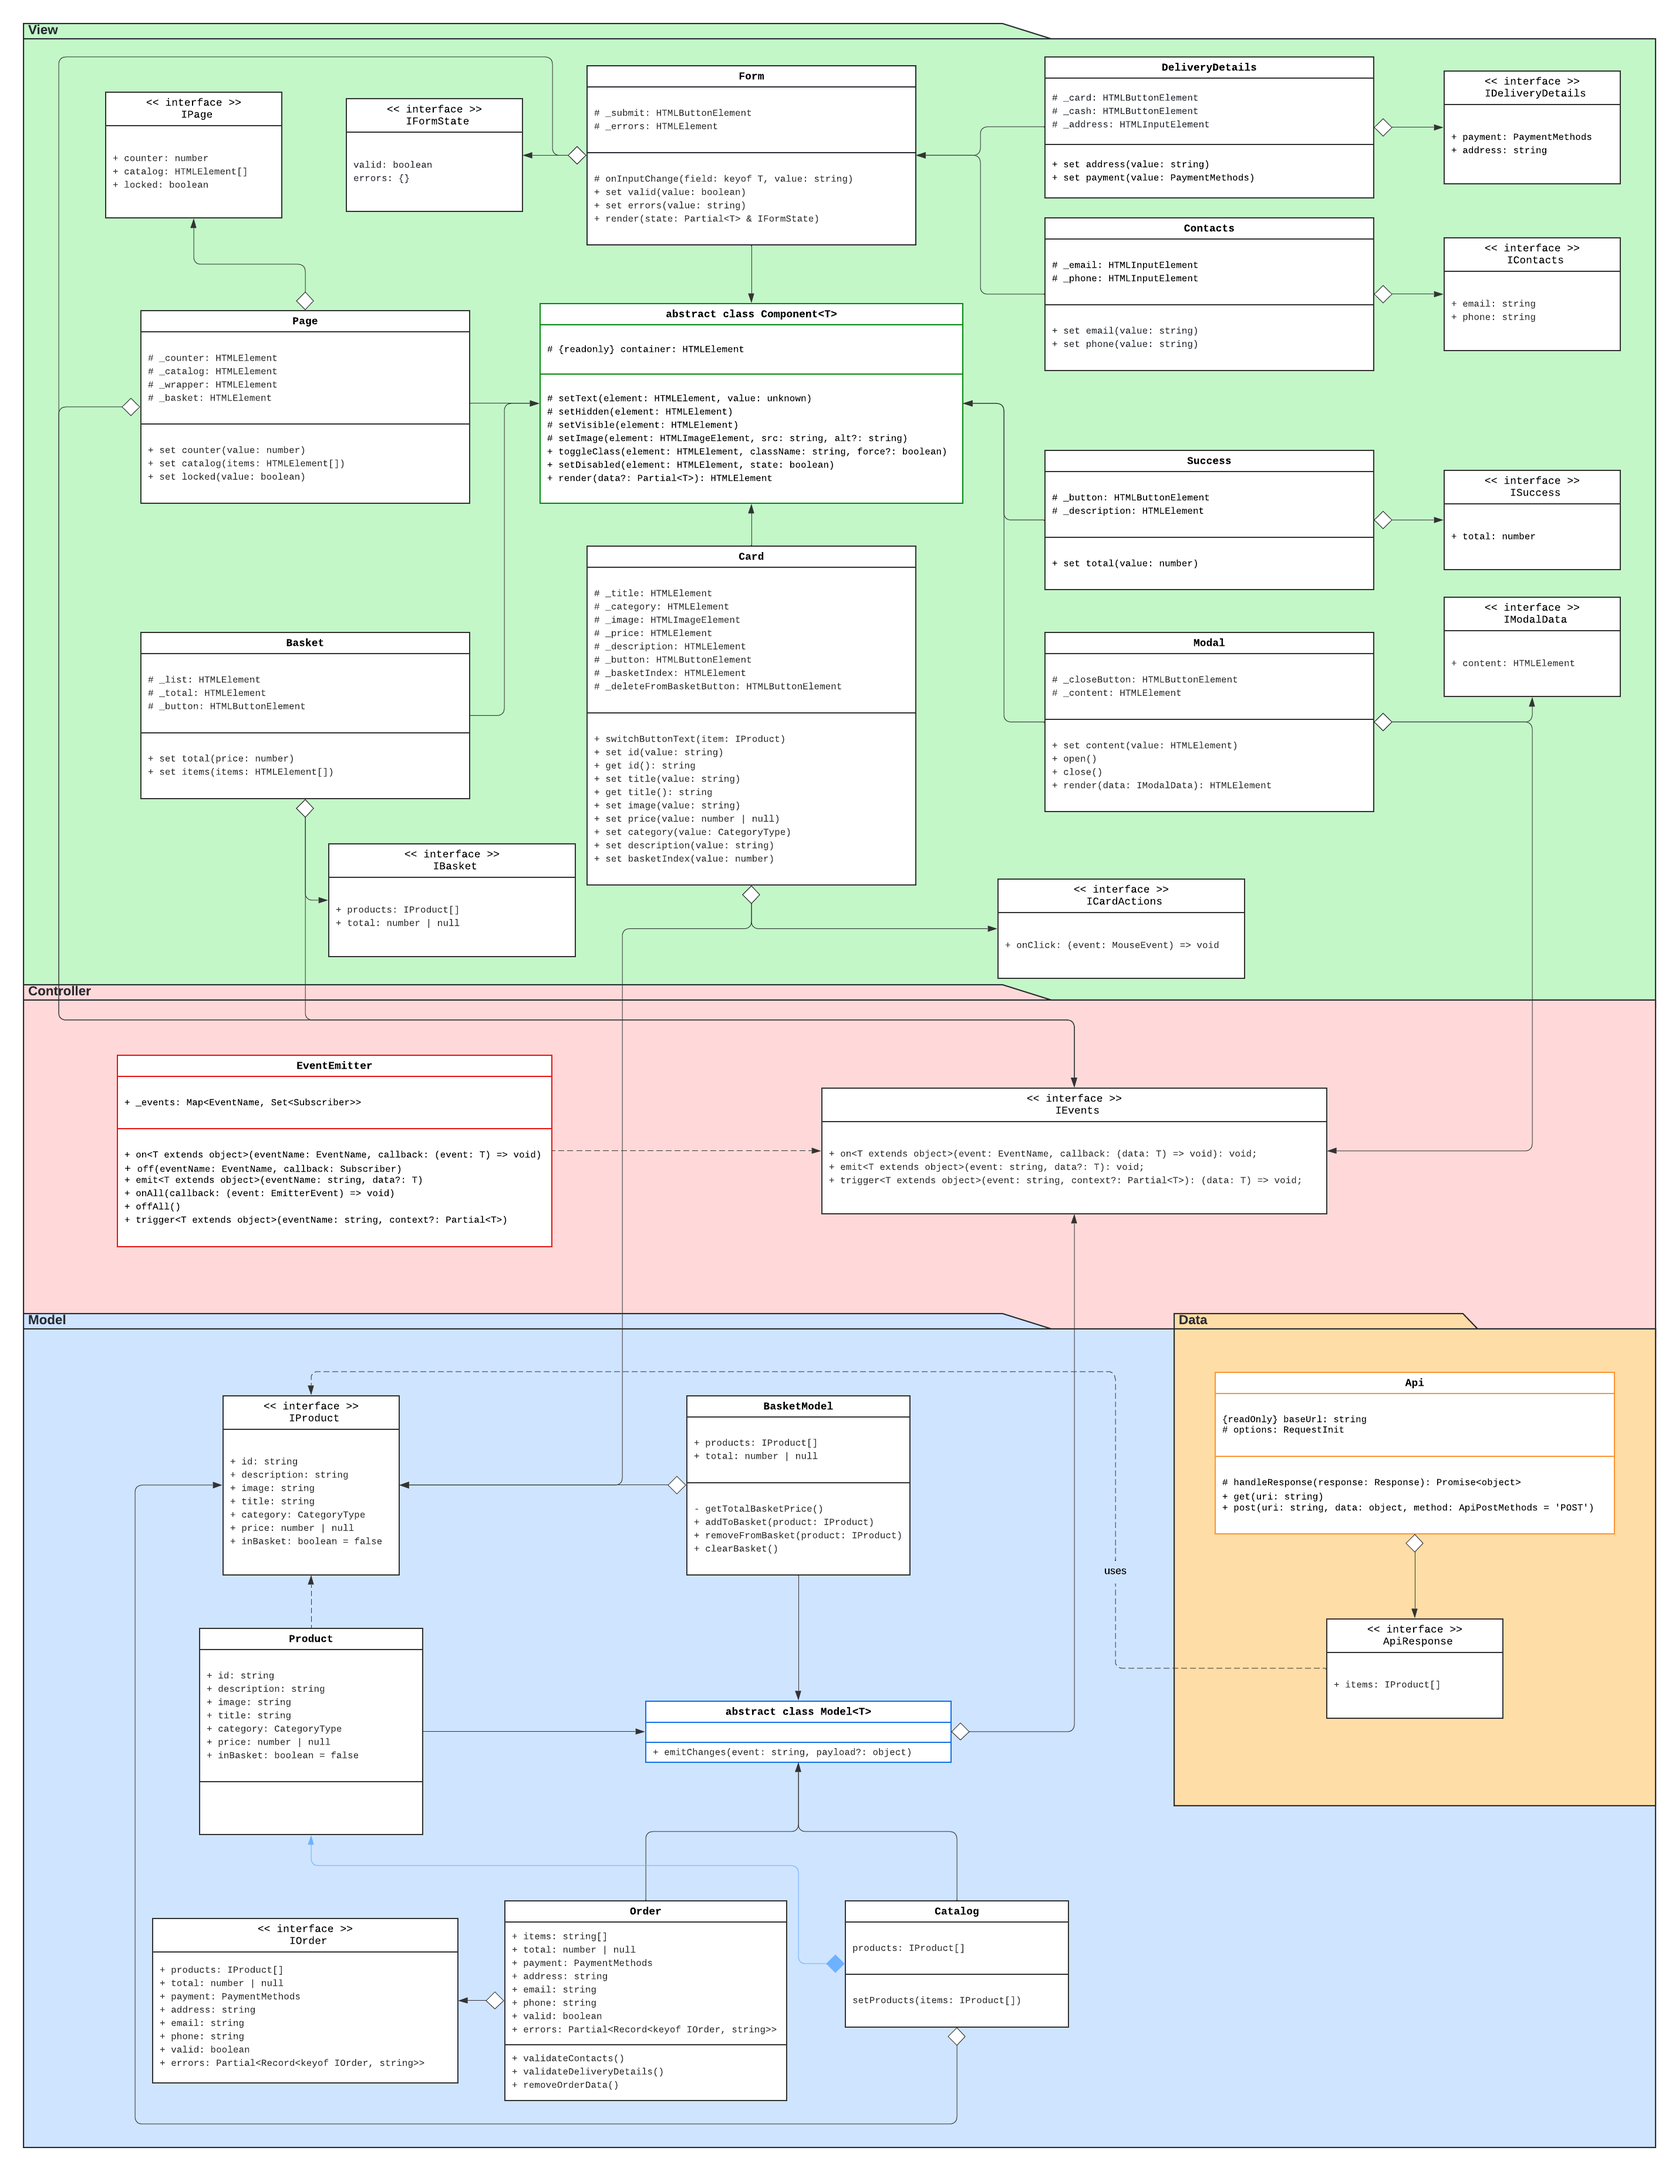
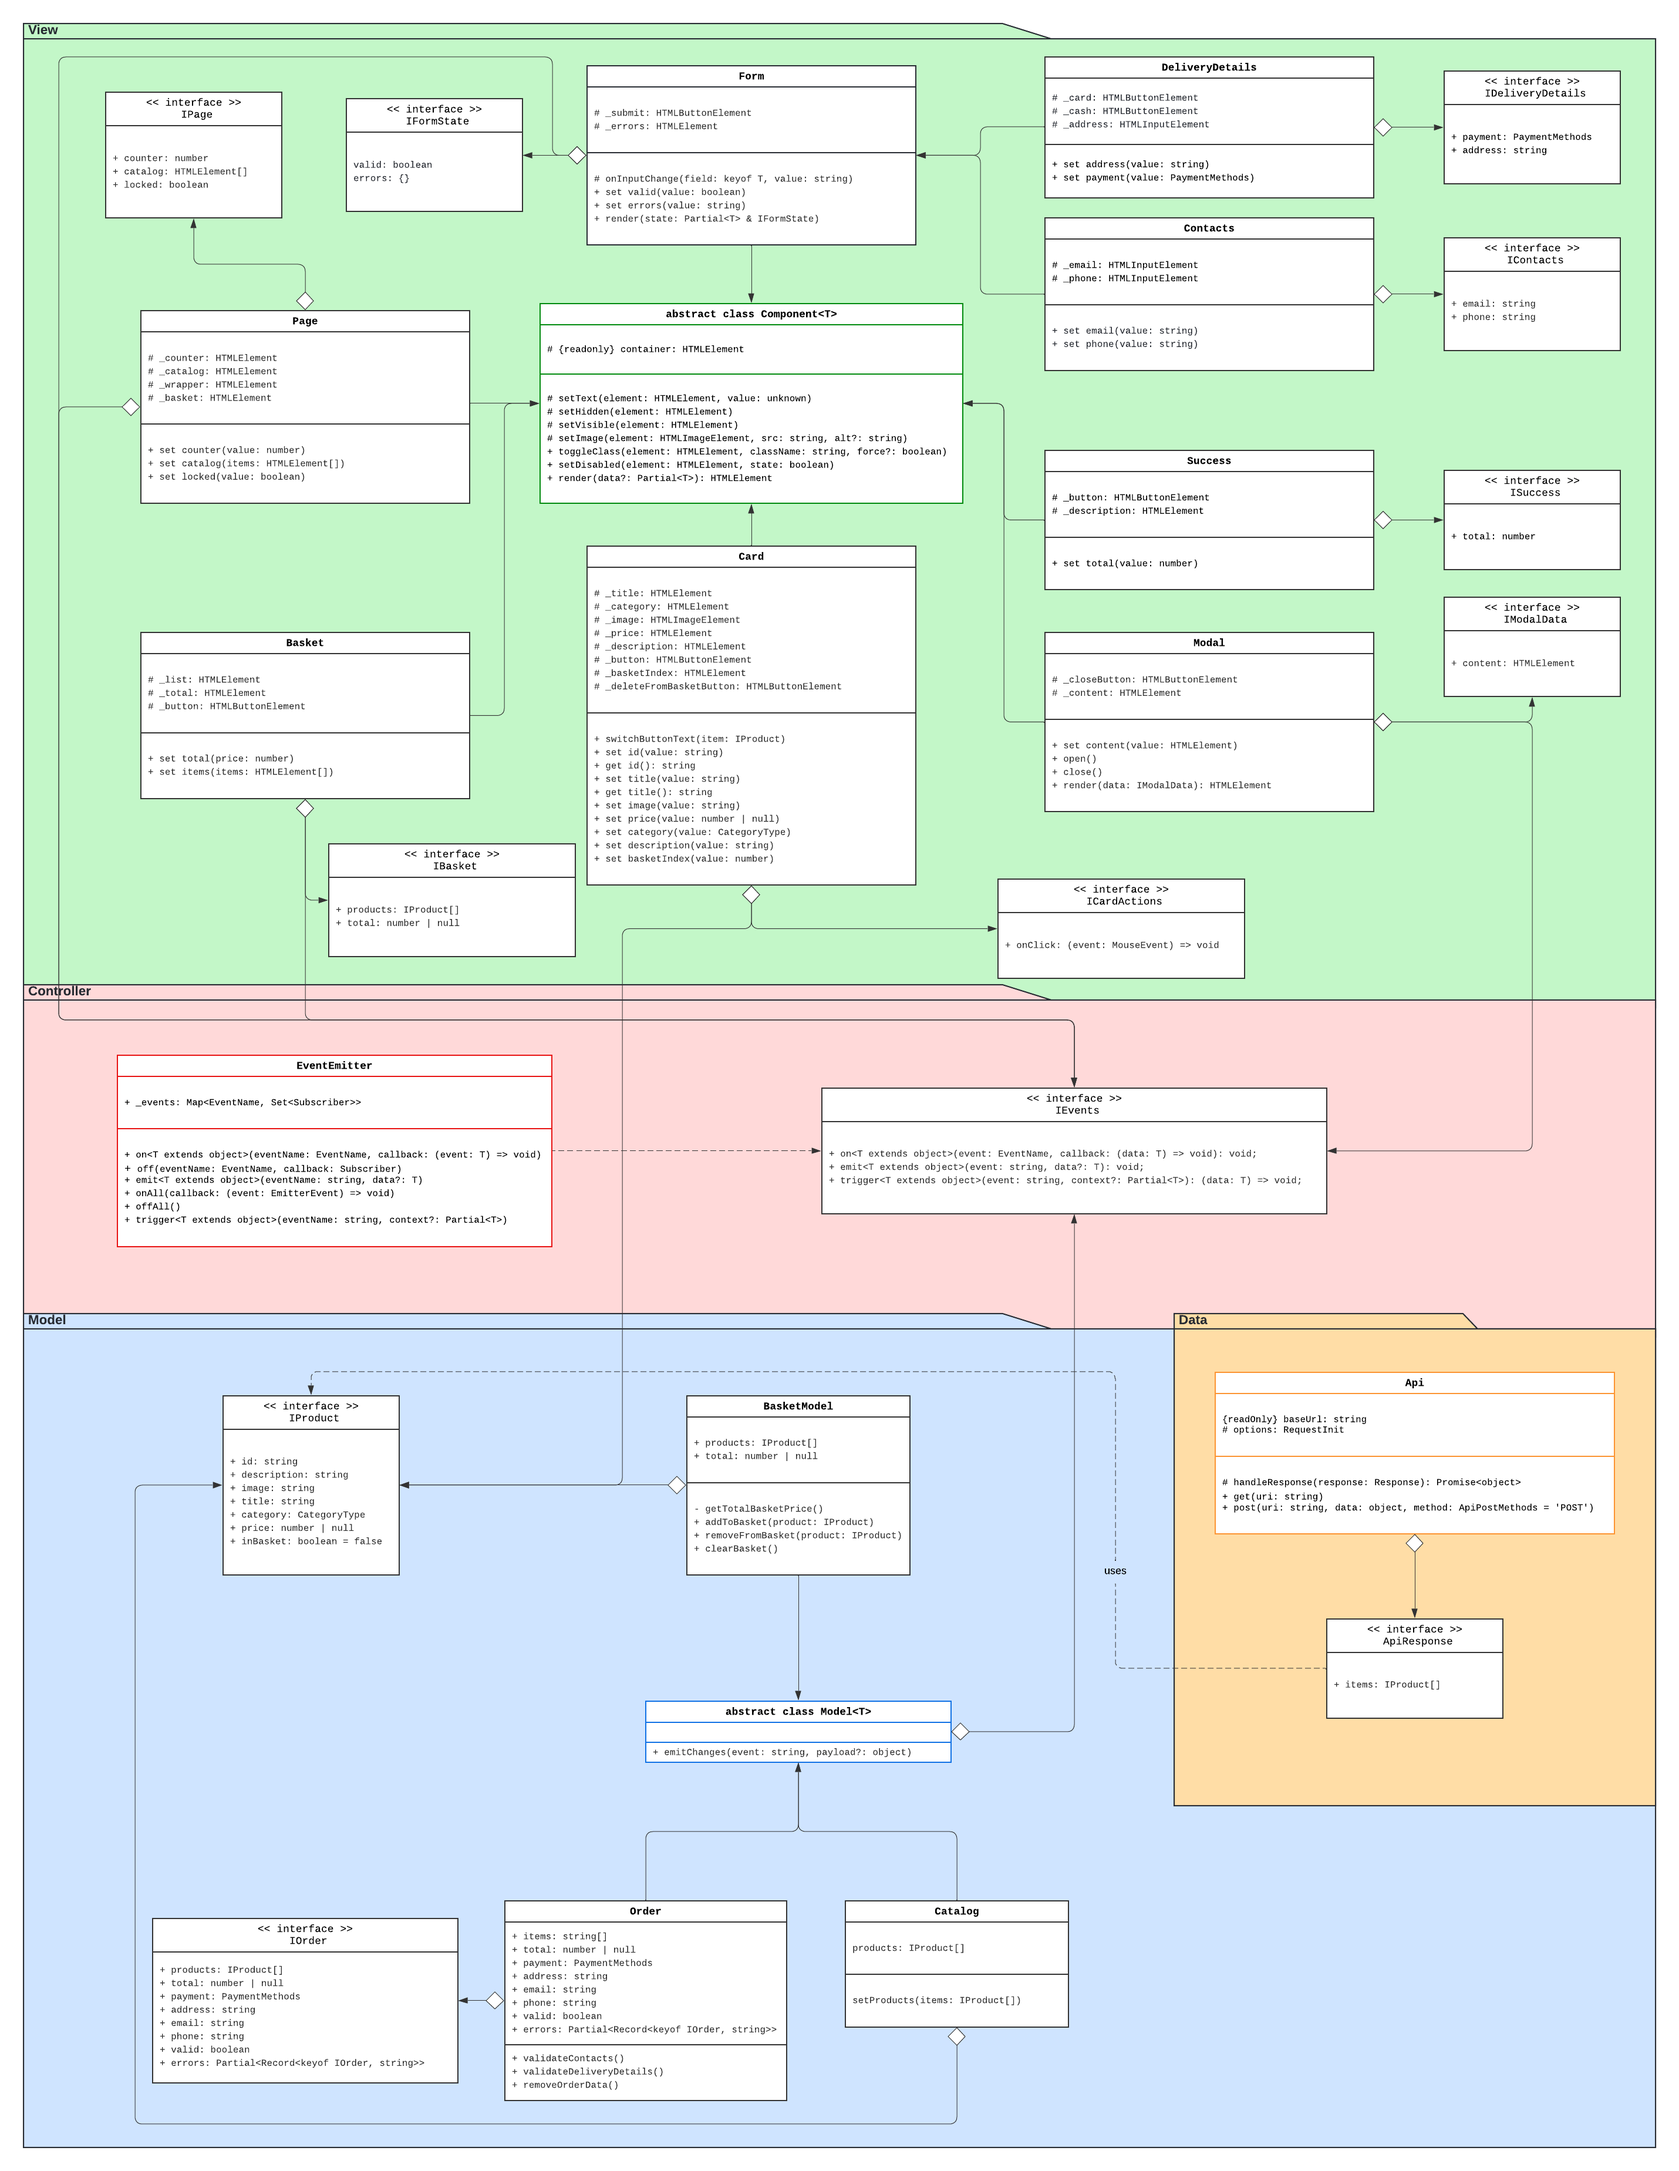
remove Product, fix basket elements view

Changed region(s): [[0.0934, 0.7466, 0.2801, 0.871]]

diff --git a/src/index.ts b/src/index.ts
@@ -7,7 +7,6 @@ import { IOrder, IProduct, PaymentMethods } from './types';
 import { API_URL } from './utils/constants';
 import { cloneTemplate, ensureElement } from './utils/utils';
 import { Card } from './components/view/Card';
-import { Product } from './components/model/Product';
 import { ApiResponse } from './types/base/Api';
 import { Modal } from './components/view/Modal';
 import { BasketModel } from './components/model/BasketModel';
@@ -72,7 +71,7 @@ events.on('items:changed', () => {
 });
 
 // открыть карточку
-events.on('catalog:selectCard', (item: Product) => {
+events.on('catalog:selectCard', (item: IProduct) => {
 	//для того товара, на который нажали, создаем карточку
 	const productPreview = new Card(
 		'card',
@@ -102,18 +101,19 @@ events.on('modal:close', () => {
 });
 
 // добавить/удалить из корзины (из карточки товара)
-events.on('modal:toBasket', (item: Product) => {
+events.on('modal:toBasket', (item: IProduct) => {
 	//если в модели корзины уже содержится товар, то удаляем; в обратном случае - добавляем
 	basketModel.products.some((product) => product.id === item.id)
 		? basketModel.removeFromBasket(item)
 		: basketModel.addToBasket(item);
 	//и меняем счетчик товаров в корзине
 	page.counter = basketModel.products.length;
+	getBasketItemsView();
 });
 
 // получить актуальные отображения товаров, добавленных в корзину
 function getBasketItemsView() {
-	//берем товары из модели корзины, инстанцируем для них карточки, рендерим и сохраняем в товары вьюшки корзины
+	// берем товары из модели корзины, инстанцируем для них карточки, рендерим и сохраняем в товары вьюшки корзины
 	basket.items = basketModel.products.map((item, index) => {
 		const basketItem = new Card('card', cloneTemplate(basketItemTemplate), {
 			onClick: () => {
@@ -128,14 +128,14 @@ function getBasketItemsView() {
 // открыть корзину
 events.on('basket:open', () => {
 	//рендерим модалку с актуальными товарами корзины
-	getBasketItemsView();
+	console.log(basket.items);
 	modal.render({
 		content: basket.render(basketModel),
 	});
 });
 
 // удалить из корзины (находясь в корзине)
-events.on('basket:delete', (itemToDelete: Product) => {
+events.on('basket:delete', (itemToDelete: IProduct) => {
 	//удаляем сначала из модели
 	basketModel.removeFromBasket(itemToDelete);
 	//переопределяем сумму корзины и счетчик на странице
@@ -217,13 +217,6 @@ events.on('contacts:submit', () => {
 	api
 		.post('/order', order)
 		.then((res) => {
-			// const success = new Success(
-			// 	'order-success',
-			// 	cloneTemplate(successTemplate),
-			// 	{
-			// 		onClick: () => events.emit('success:close'),
-			// 	}
-			// );
 			modal.render({
 				content: success.render({
 					total: order.total,

diff --git a/src/components/model/Catalog.ts b/src/components/model/Catalog.ts
@@ -1,12 +1,10 @@
 import { IProduct } from '../../types';
 import { Model } from '../base/Model';
-import { Product } from './Product';
-
 export class Catalog extends Model<IProduct[]> {
-	products: Product[];
+	products: IProduct[] = [];
 
 	setProducts(items: IProduct[]) {
-		this.products = items.map((item) => new Product(item, this.events));
+		items.map((item) => this.products.push(item));
 		this.emitChanges('items:changed', { products: this.products });
 	}
 }

diff --git a/README.md b/README.md
@@ -152,37 +152,11 @@ UML-диаграмма:
 
 ## Модели данных
 
-Было решено реализовать 4 сущности:
+Было решено реализовать 3 сущности:
 
-- Модель продукта - `Product`
 - Модель каталога товаров - `Catalog`
 - Модель корзины - `BasketModel`
 - Модель данных заказа - `Order`
-
-### Класс `Product`
-
-Наследует абстрактный класс Model, на место дженерика передается интерфейс `IProduct`. Хранит данные о товаре, полученные с сервера, а также флаг о наличии товара в корзине пользователя.
-
-**Поля**
-
-Все свойства являются публичными.
-
-- `id: string` - уникальный идентификатор товара
-- `description: string` - описание товара
-- `image: string` - картинка товара
-- `title: string` - название товара
-- `category: CategoryType` - категория товара
-- `price: number | null` - цена товара
-- `inBasket: boolean` - показывает, находится ли товар в корзине
-
-**Методы**
-
-Поскольку данные о товаре не меняются, методов данный класс не предусматривает.
-
-**Типы и интерфейсы**
-
-- `type CategoryType` - список доступных категорий товаров
-- `interface IProduct` - описывает данные о товаре, прилетающие с бэка, содержит те же поля, что класс `Product`
 
 ### Класс `Catalog`
 
